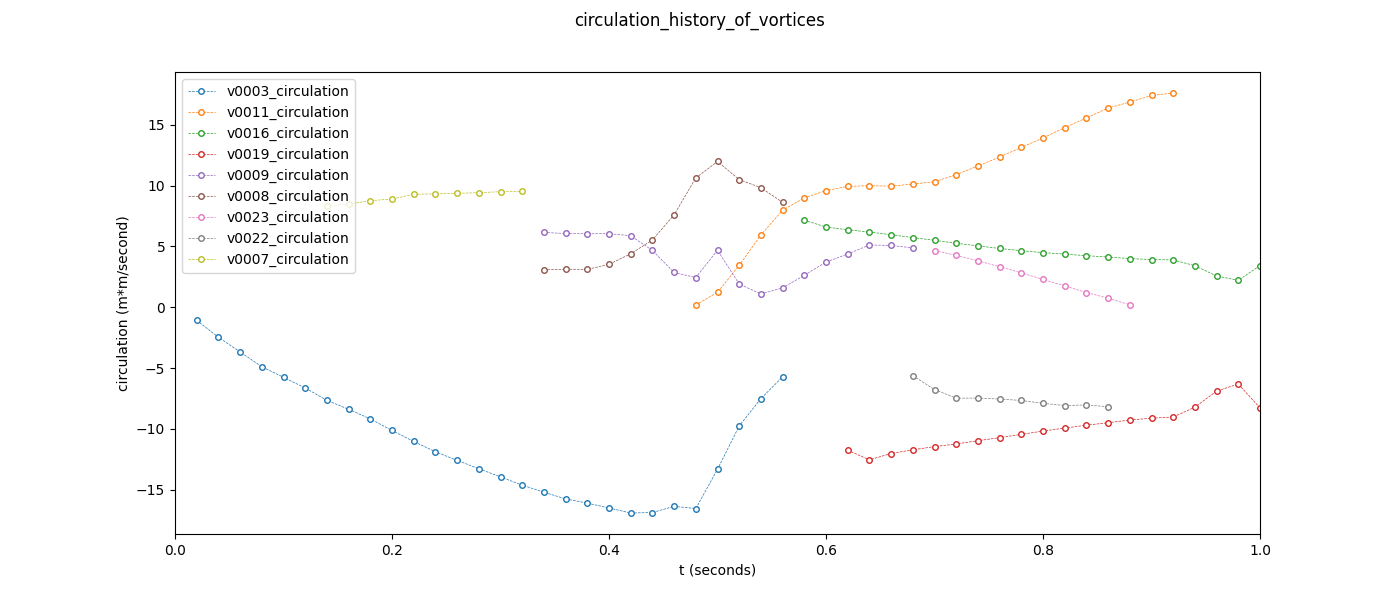
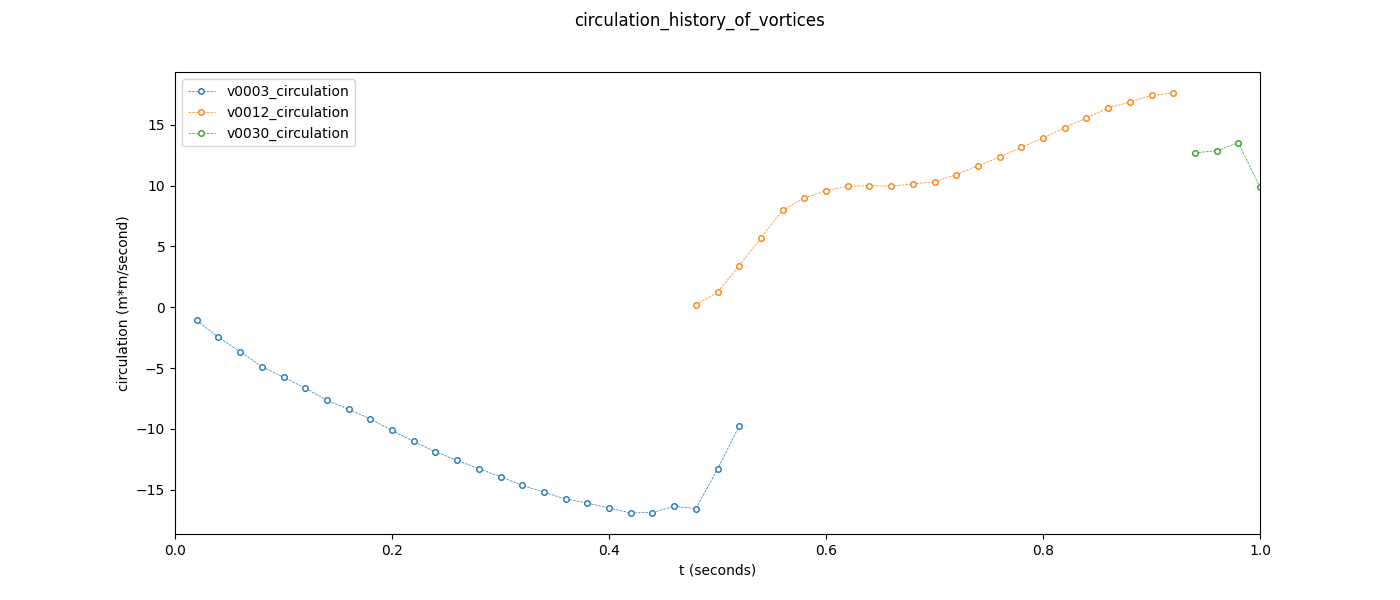
used for LEV processing

diff --git a/2d_post/cprocessing_functions.py b/2d_post/cprocessing_functions.py
@@ -328,16 +328,18 @@ def write_individual_vortex(window, time_instance, marked_vortices_history,
     marked_vortices_current = marked_vortices_history[-1]
     exist_vortices_no = np.unique(marked_vortices_current[:, 0])
     # print(exist_vortices_no)
-    if not v_no_save_image == 0:
-        ind_v_image_folder = os.path.join(
+    ind_v_image_file = []
+    for v_no_save_imagei in v_no_save_image:
+        ind_v_image_folderi = os.path.join(
             individual_vortex_folder,
-            'image_vortex_no_' + str(v_no_save_image))
+            'image_vortex_no_' + str(v_no_save_imagei))
 
-        if not os.path.exists(ind_v_image_folder):
-            os.mkdir(ind_v_image_folder)
+        if not os.path.exists(ind_v_image_folderi):
+            os.mkdir(ind_v_image_folderi)
 
-        ind_v_image_file = os.path.join(ind_v_image_folder,
-                                        'time_' + time_instance + '.png')
+        ind_v_image_filei = os.path.join(ind_v_image_folderi,
+                                         'time_' + time_instance + '.png')
+        ind_v_image_file.append(ind_v_image_filei)
 
     for exist_v_noi in exist_vortices_no:
         ind_vortex_history_file = os.path.join(
@@ -375,9 +377,10 @@ def write_individual_vortex(window, time_instance, marked_vortices_history,
         with open(ind_vortex_history_file, 'a') as f:
             f.write("%s\n" % ', '.join(ind_vortex_historyi))
 
-        if v_no_save_image == exist_v_noi:
-            field_plot(window, org_vorz_field, image_v_noi, ind_v_image_file,
-                       'save')
+        for i in range(len(v_no_save_image)):
+            if exist_v_noi == v_no_save_image[i]:
+                field_plot(window, org_vorz_field, image_v_noi,
+                           ind_v_image_file[i], 'save')
             plt.close()
 
 

diff --git a/2d_post/circulation_processing.py b/2d_post/circulation_processing.py
@@ -13,13 +13,13 @@ from cprocessing_functions import (field_plot, vortices_processing,
 #--------------input parameters------------
 window = [-6, 4, -4, 4]
 resolution = [1000, 800]
-vortex_no_to_save_as_image = 11  # 0 means not saving any vortex image
+vortex_no_to_save_as_image = [1, 12]  # enpty means not saving any vortex image
 data_time_increment = 2e-2
 #------------------------
 wbound_radius = 0
 #----thresholds are all wrt. maximum (positive and negative)-------
 threshold_q = 5e-4
-threshold_vorz = 1e-2
+threshold_vorz = 1e-3
 threshold_circulation = 1e-2
 #--multiply by wing displacement to obtain max. traveled dist in one t_step for vortices, vortices are considered as the same one if its traveled dist is less than this value--
 v_vanish_dist_factor = 1

diff --git a/2d_post/circulation_plotting.py b/2d_post/circulation_plotting.py
@@ -11,8 +11,9 @@ from cprocessing_functions import read_all_vortices, plot_v_circulations_locs
 #--list: plot particular vortex in the list--
 #--------------------------------------------
 # vortices_to_plot = 'all'
-vortices_to_plot = 10
-# vortices_to_plot = [61, 165]
+# vortices_to_plot = 20
+vortices_to_plot = [3, 12, 30]
+# vortices_to_plot = [x for x in range(20, 37)]
 # time_to_plot = 'all'
 time_to_plot = [0, 1]
 #------------------------------------------
